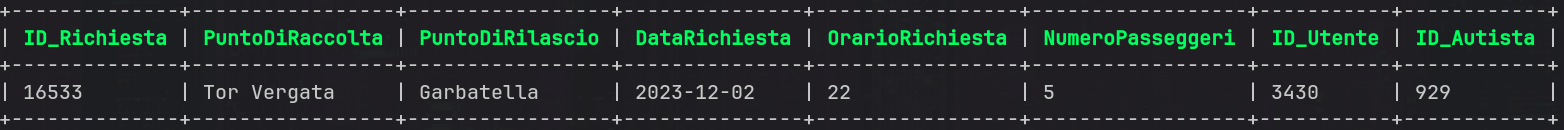
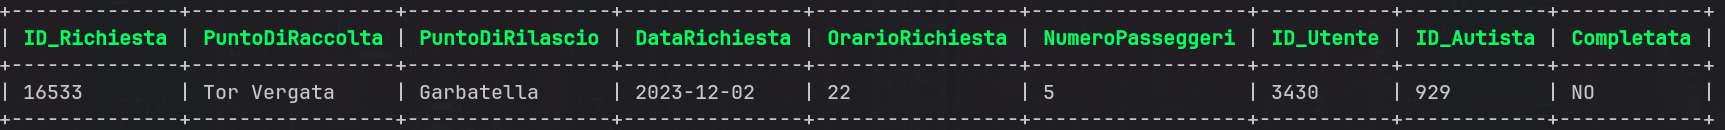
vault backup: 2024-01-11 17:01:10

diff --git a/Appunti BSD/Progetto DB/Fase tre.md b/Appunti BSD/Progetto DB/Fase tre.md
@@ -1515,10 +1515,12 @@ ORDER BY NumeroFeedback3Stelle DESC
 
 ![[query17.png|center|400]]
 
-- Visualizza l'ultima richiesta di prenotazione di un certo utente
+- Visualizza l'ultima richiesta di prenotazione di un certo utente, aggiungendo (**solo in output**) un campo che dice se la Richiesta fa parte di una tratta completata o no
 
 ```SQL
-SELECT rp.* FROM RichiestePrenotazioni rp 
+SELECT rp.*, 
+IF(rp.ID_Richiesta IN (SELECT ID_TrattaC FROM TratteCompletate tc),'SI','NO' ) AS Completata 
+FROM RichiestePrenotazioni rp 
 JOIN Utenti u ON rp.ID_Utente = u.ID_Utente
 WHERE rp.ID_Utente = '3430' AND rp.DataRichiesta 
 IN 
